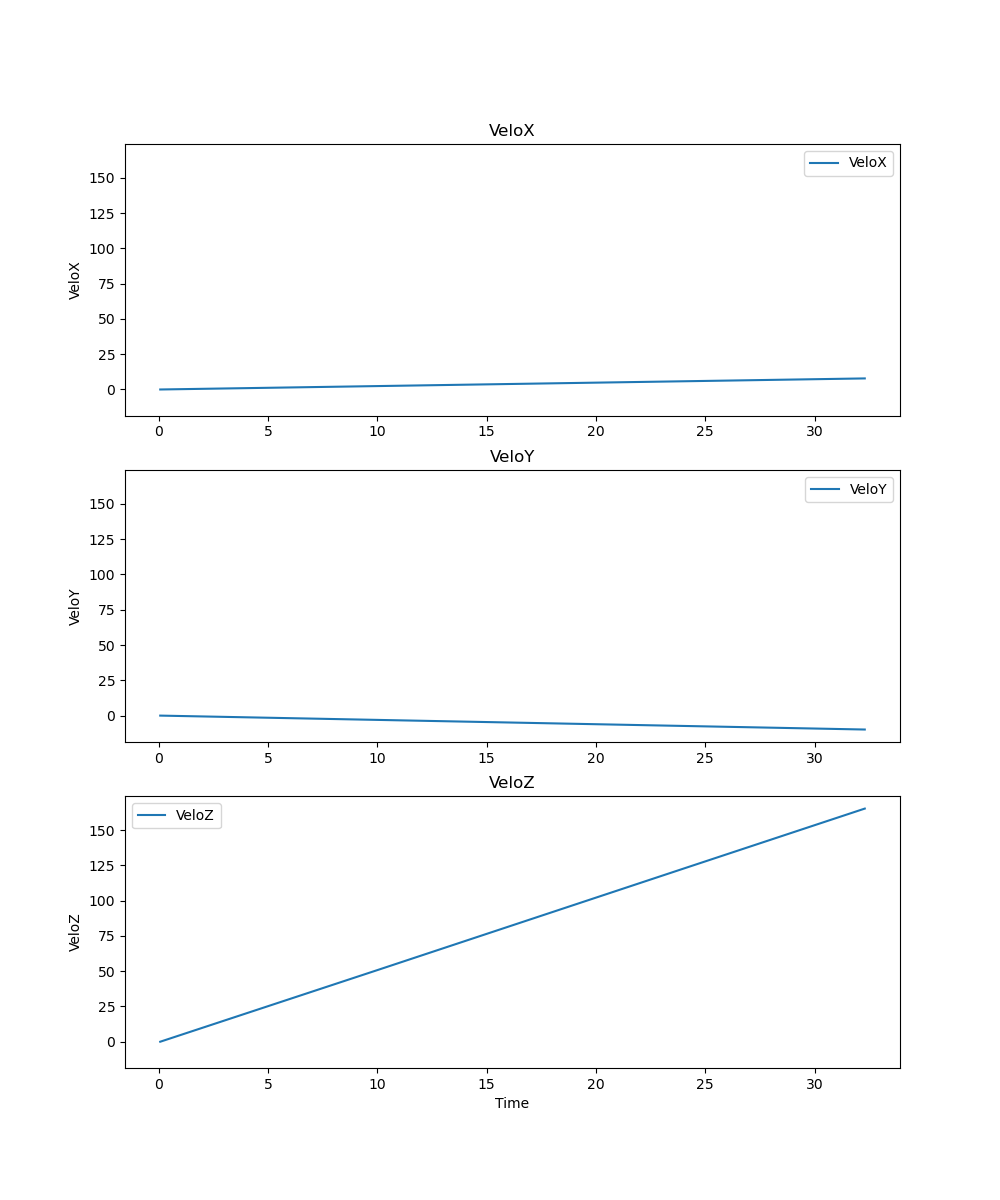
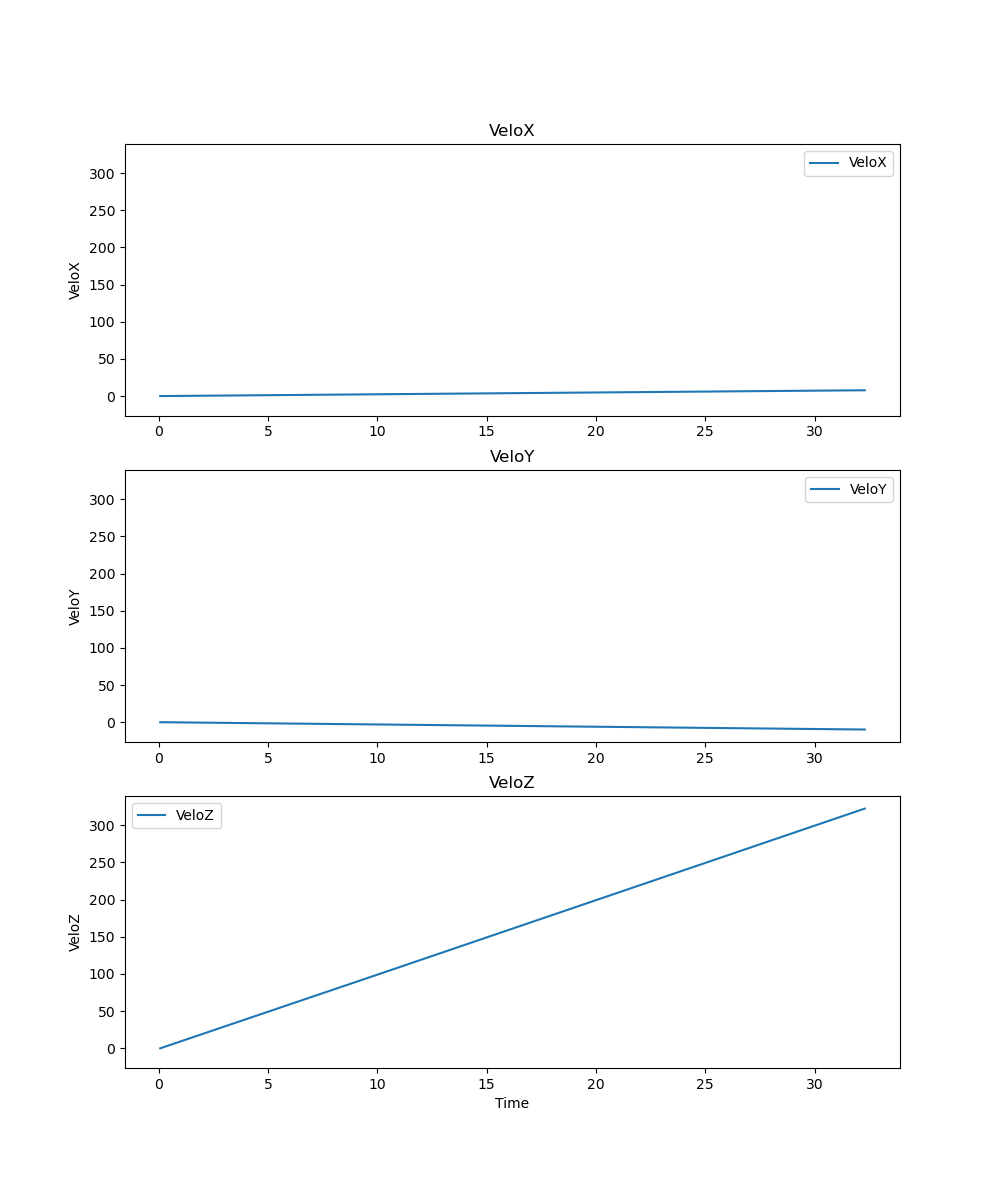
bug corrected

diff --git a/main.py b/main.py
@@ -95,7 +95,7 @@ def do_integration(data_in):
         dt = time[i] - time[i - 1]
         velo_x = data_out[i - 1][1] + (x[i] + x[i - 1]) / 2 * dt
         velo_y = data_out[i - 1][2] + (y[i] + y[i - 1]) / 2 * dt
-        velo_z = data_out[i - 1][3] + (z[i] + x[i - 1]) / 2 * dt
+        velo_z = data_out[i - 1][3] + (z[i] + z[i - 1]) / 2 * dt
 
         data_out.append([time[i], velo_x, velo_y, velo_z])
 
@@ -114,7 +114,7 @@ def do_remove_gravity_by_mean(data):
 
     data_nog = []
     for i in range(len(time)):
-        data_nog.append([time[i], x[i] - mean_x, y[i]-mean_y, z[i]- mean_z])
+        data_nog.append([time[i], x[i] - mean_x, y[i] - mean_y, z[i] - mean_z])
 
     return data_nog
 
@@ -217,7 +217,7 @@ if __name__ == '__main__':
             limits_nog = [[-10000, 10000], [-1000, 10000]]
         else:
             limits_org = [[0, 10], [0, 10]]
-            limits_raw = [[-1000, 1000], [-1000, 1000]]
+            limits_raw = [[-250, 250], [-250, 250]]
             limits_nog = [[-100, 100], [-100, 100]]
 
         plot_data2D(posi_org, "test_" + test + "_posi2D_org.png", limits_org)
